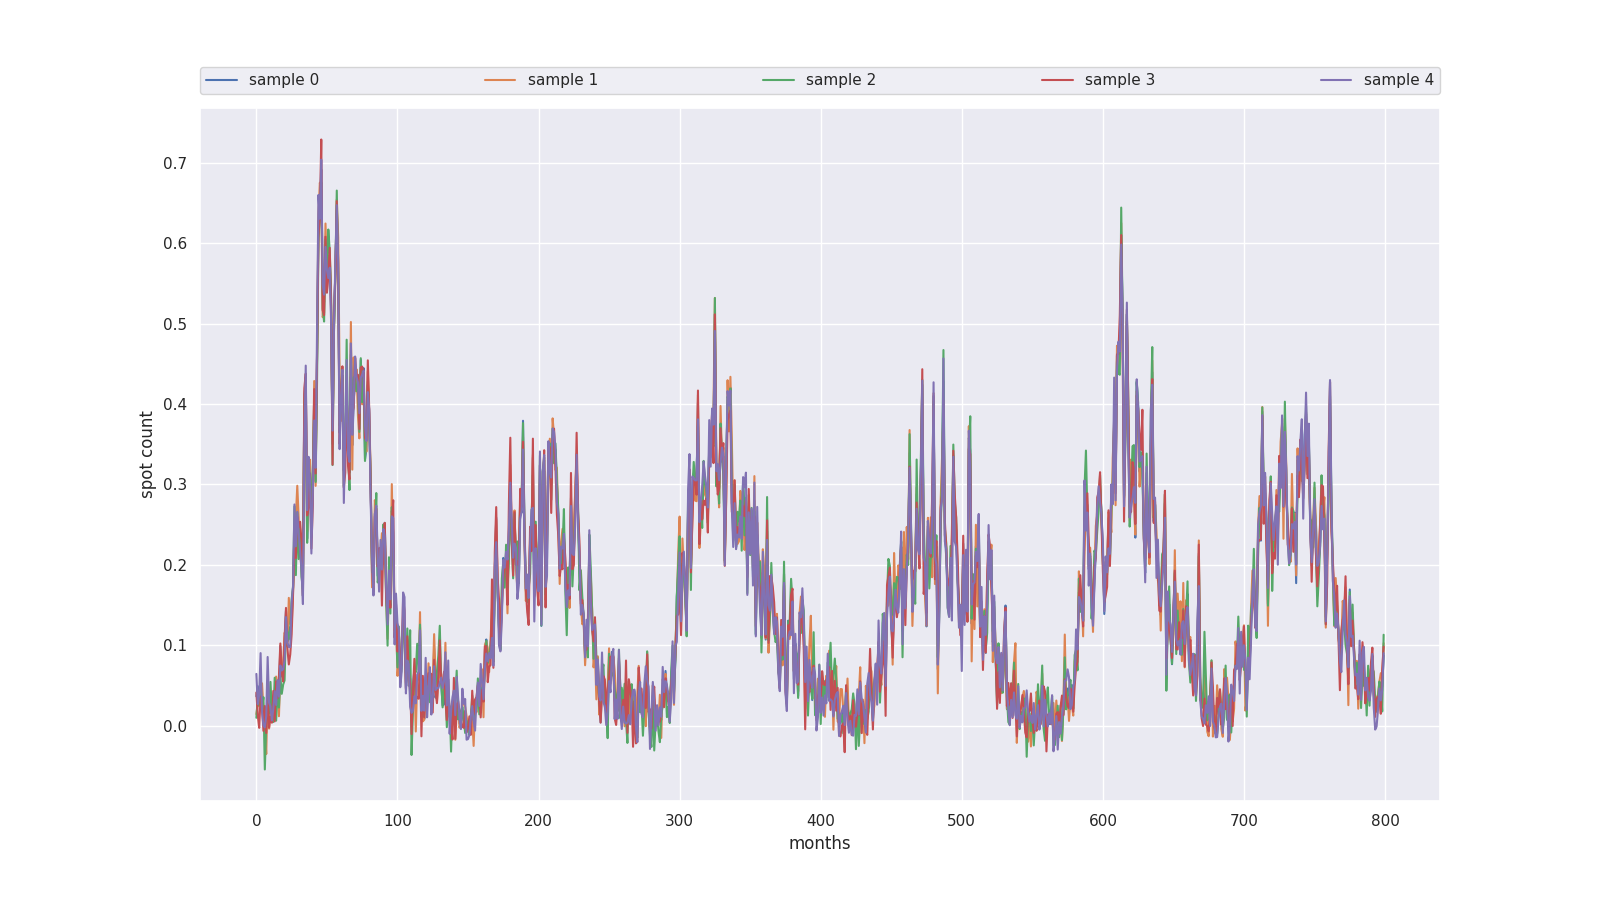
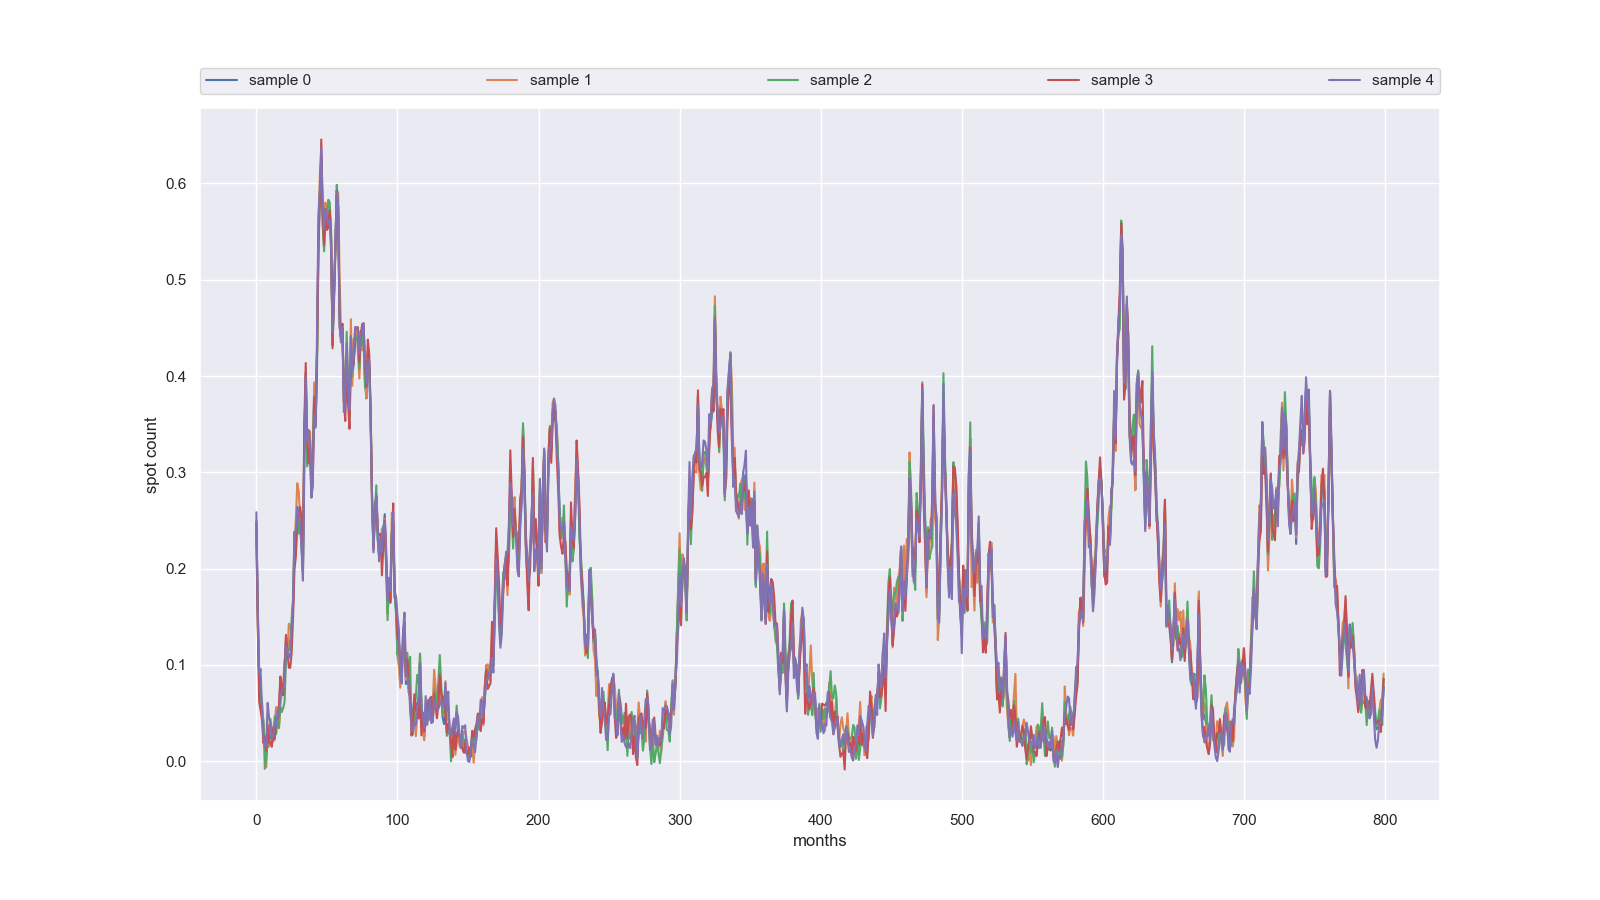
Save the images on running the examples (#7)

diff --git a/examples/time_series_generation.py b/examples/time_series_generation.py
@@ -60,4 +60,5 @@ if __name__ == "__main__":
     axs.legend(bbox_to_anchor=(0, 1.02, 1, 0.2), loc="lower left", mode="expand", borderaxespad=0, ncol=inputs.size(0))
     axs.set_xlabel("months")
     axs.set_ylabel("spot count")
+    fig.savefig(EXAMPLES_DIR / "time_series_generation.png")
     plt.show()

diff --git a/examples/time_series_learning.py b/examples/time_series_learning.py
@@ -153,4 +153,5 @@ if __name__ == "__main__":
 
     # Plot the results.
     plot_results(fig)
+    fig.savefig(EXAMPLES_DIR / "time_series_learning.png")
     plt.show()
